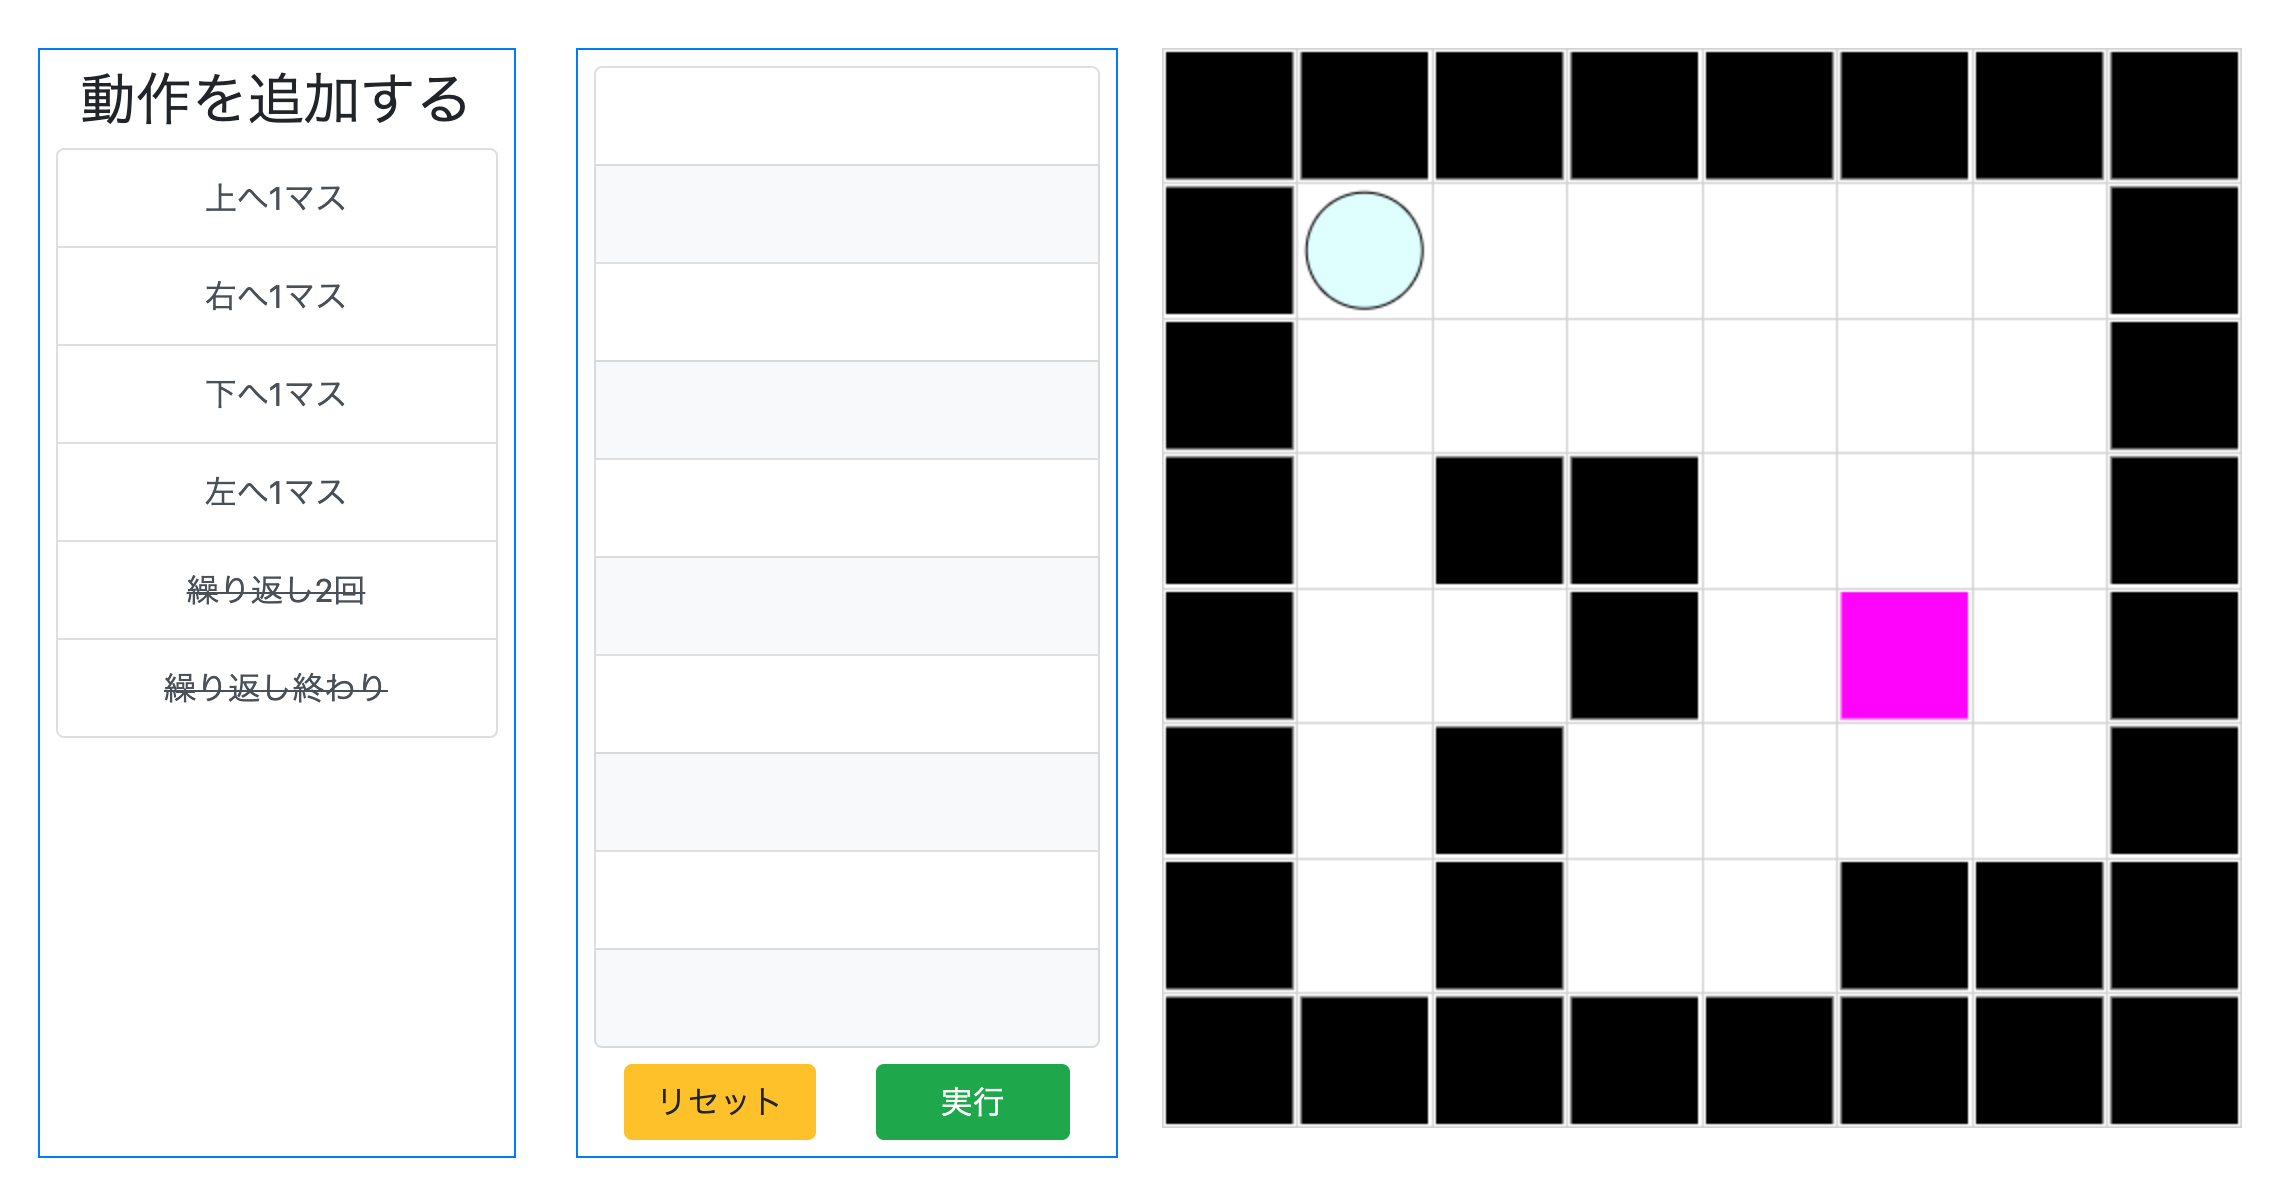
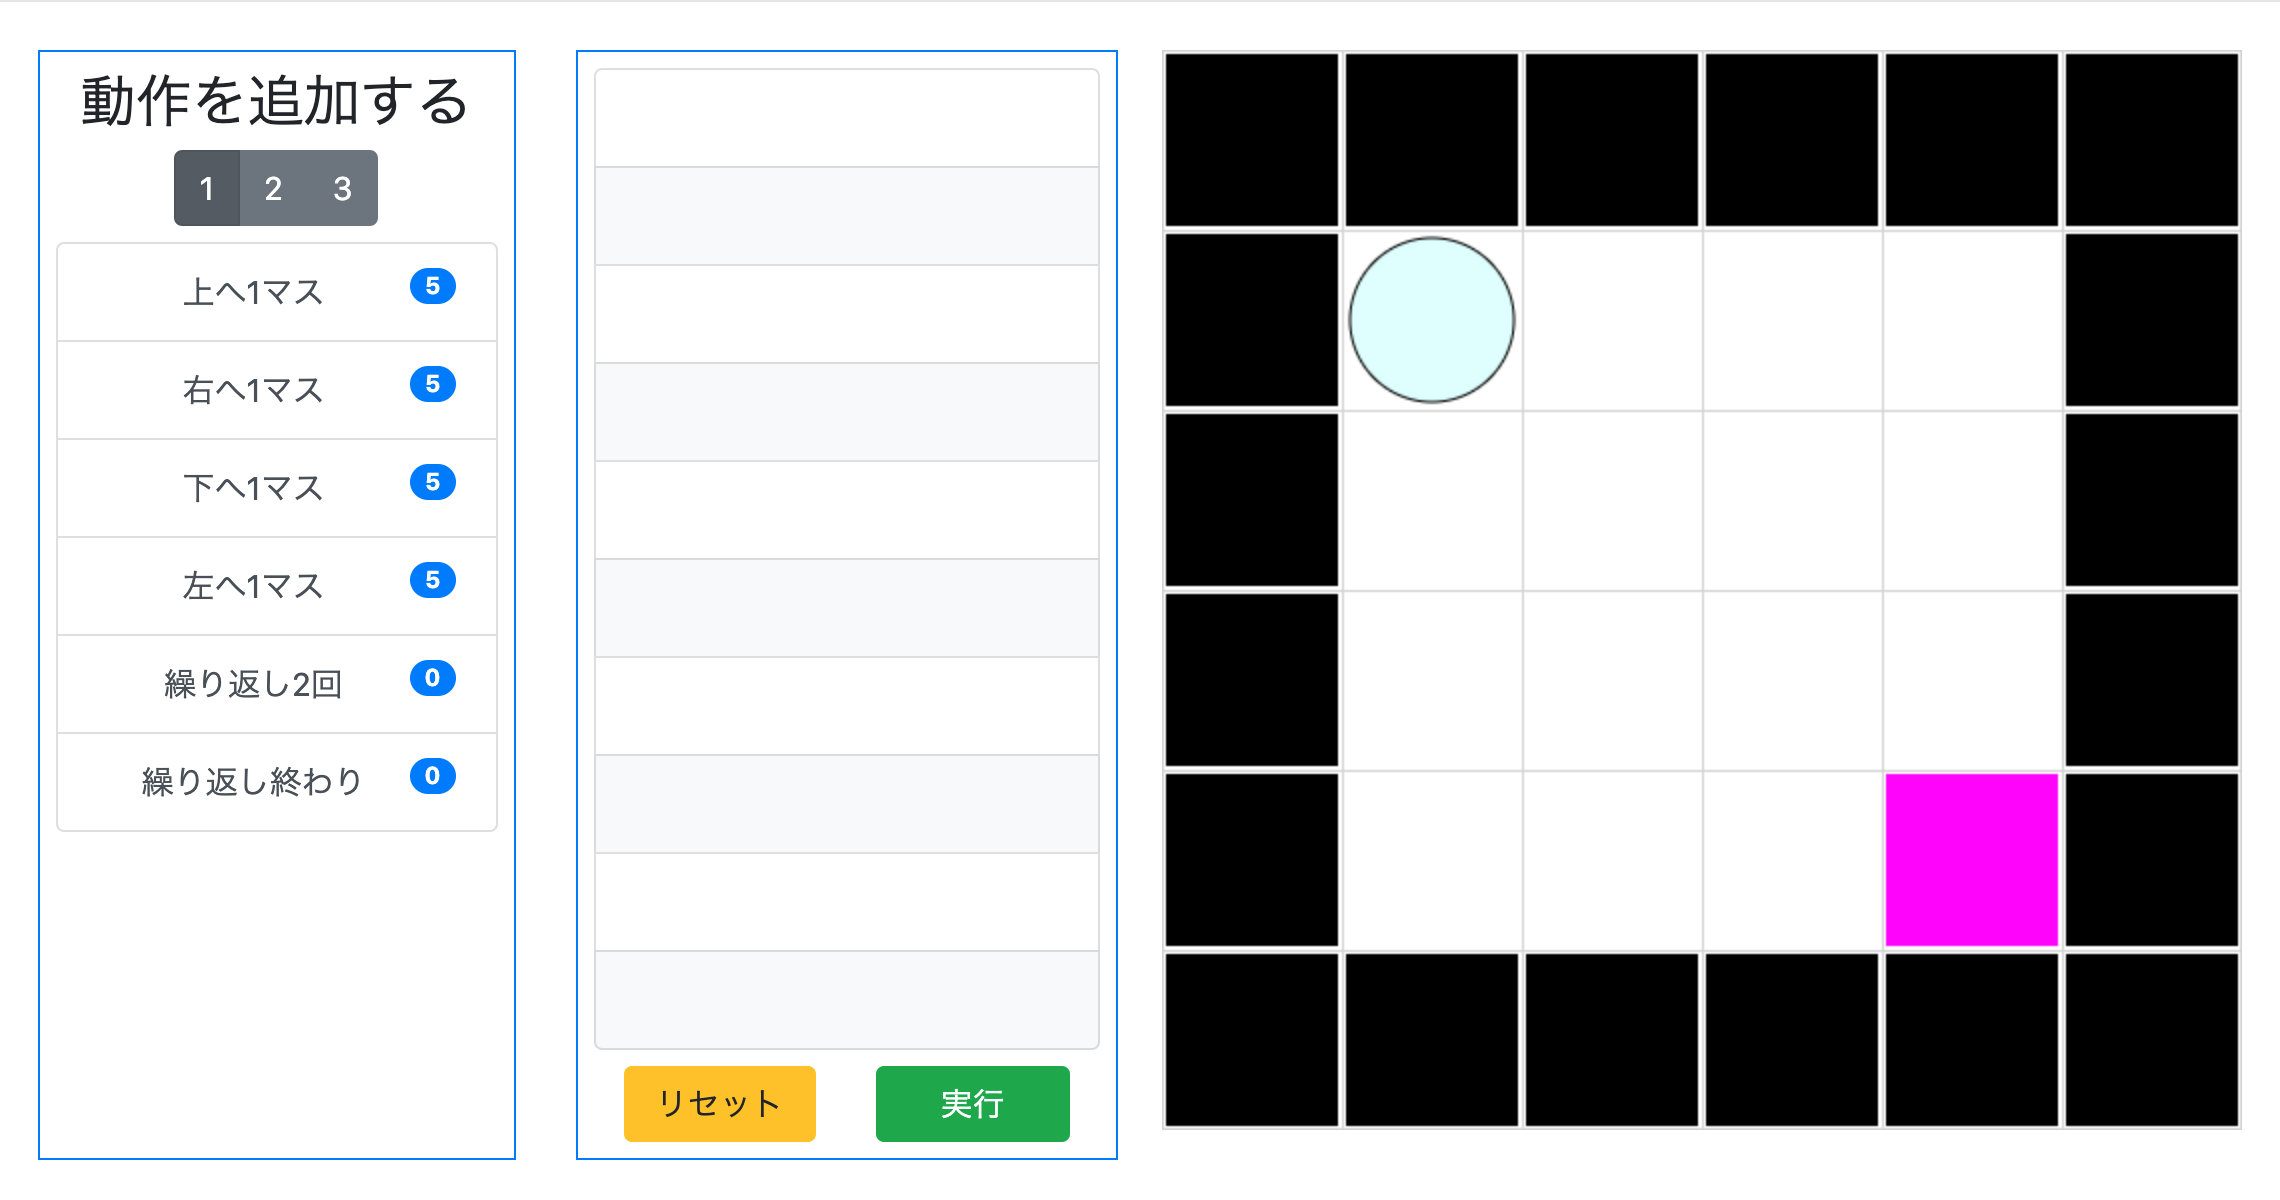
bug fixed (move acrros bug)

diff --git a/js/RunTodos.js b/js/RunTodos.js
@@ -1,15 +1,35 @@
 class RunTodos {
-  static getTodosArr(purpose) {
+  static getTodosArr() {
     const todos = Array.from(document.getElementById('todos').children)
       .filter(el => el.classList.contains('not-empty'))
       .map(el => el.innerText.slice(0, -2)); // remove x and break line
-    if (purpose === 'dir') {
-      return todos.filter(todo => todo.slice(3, 5) === 'マス');
-    } else if (purpose === 'for') {
-      return todos.filter(todo => todo.slice(0, 4) === '繰り返し');
-    } else {
-      throw new Error('purpose string should be \'dir\' or \'for\'');
-    }
+    let editedTodos = [];
+    todos.forEach(todo => {
+      for (const num of range(1, 3)) {
+        if (todo === `上へ${num}マス`) {
+          for (const _ of range(1, num)) {
+            editedTodos.push('上へ1マス');
+          }
+          continue;
+        } else if (todo === `右へ${num}マス`) {
+          for (const _ of range(1, num)) {
+            editedTodos.push('右へ1マス');
+          }
+          continue;
+        } else if (todo === `下へ${num}マス`) {
+          for (const _ of range(1, num)) {
+            editedTodos.push('下へ1マス');
+          }
+          continue;
+        } else if (todo === `左へ${num}マス`) {
+          for (const _ of range(1, num)) {
+            editedTodos.push('左へ1マス');
+          }
+          continue;
+        }
+      }
+    });
+    return editedTodos;
   }
 
   setRunTodosHandler(field, ball, canvasModal, actions) {
@@ -23,33 +43,21 @@ class RunTodos {
         // Clear event handler
         document.getElementById('actions').outerHTML = document.getElementById('actions').outerHTML;
         document.getElementById('resetTodos').outerHTML = document.getElementById('resetTodos').outerHTML;
-        // This can't be written by forEach in async => https://qiita.com/frameair/items/e7645066075666a13063
         (async () => {
-          const dirTodos = RunTodos.getTodosArr('dir');
-          const forTodos = RunTodos.getTodosArr('for');
-          for (const todo of dirTodos) {
+          const todos = RunTodos.getTodosArr();
+          // This can't be written by forEach in async => https://qiita.com/frameair/items/e7645066075666a13063
+          for (const todo of todos) {
             await RunTodos.moveBallSmooth(todo, this.ball);
-            let blockStatus;
-            if (this.ball.posX >= 0 && this.ball.posY >= 0 && this.ball.posX < this.field.column && this.ball.posY < this.field.row) {
-              blockStatus = this.field.blockStatus[this.ball.posX][this.ball.posY];
-            } else {
-              blockStatus = 'none';
-            }
+            const blockStatus = RunTodos.getBlockStatusOfBallPos(this.ball, this.field);
             if (blockStatus === 'black' || blockStatus === 'none') {
               canvasModal.show('error', this.ball, this, this.actions);
-              dirTodos.splice(0, dirTodos.length);
+              todos.splice(0, todos.length);
             } else if (blockStatus === 'gold') {
               this.ball.posX = this.field.specialBlock.olive.x;
               this.ball.posY = this.field.specialBlock.olive.y;
             }
           }
-
-          let blockStatus;
-          if (this.ball.posX >= 0 && this.ball.posY >= 0 && this.ball.posX < this.field.column && this.ball.posY < this.field.row) {
-            blockStatus = this.field.blockStatus[this.ball.posX][this.ball.posY];
-          } else {
-            blockStatus = 'none';
-          }
+          const blockStatus = RunTodos.getBlockStatusOfBallPos(this.ball, this.field);
           if (blockStatus === 'white' || blockStatus === 'olive') {
             canvasModal.show('failed', this.ball, this, this.actions);
           } else if (blockStatus === 'magenta') {
@@ -63,41 +71,25 @@ class RunTodos {
   static async moveBallSmooth(todo, ball) {
     switch (todo) {
       case '上へ1マス':
-        await ball.moveSmooth(0, -1, 70);
+        await ball.moveSmooth(0, -1, 60);
         break;
       case '右へ1マス':
-        await ball.moveSmooth(1, 0, 70);
+        await ball.moveSmooth(1, 0, 60);
         break;
       case '下へ1マス':
-        await ball.moveSmooth(0, 1, 70);
+        await ball.moveSmooth(0, 1, 60);
         break;
       case '左へ1マス':
-        await ball.moveSmooth(-1, 0, 70);
+        await ball.moveSmooth(-1, 0, 60);
         break;
-      case '上へ2マス':
-        await ball.moveSmooth(0, -2, 70);
-        break;
-      case '右へ2マス':
-        await ball.moveSmooth(2, 0, 70);
-        break;
-      case '下へ2マス':
-        await ball.moveSmooth(0, 2, 70);
-        break;
-      case '左へ2マス':
-        await ball.moveSmooth(-2, 0, 70);
-        break;
-      case '上へ3マス':
-        await ball.moveSmooth(0, -3, 70);
-        break;
-      case '右へ3マス':
-        await ball.moveSmooth(3, 0, 70);
-        break;
-      case '下へ3マス':
-        await ball.moveSmooth(0, 3, 70);
-        break;
-      case '左へ3マス':
-        await ball.moveSmooth(-3, 0, 70);
-        break;
+    }
+  }
+
+  static getBlockStatusOfBallPos(ball, field) {
+    if (ball.posX >= 0 && ball.posY >= 0 && ball.posX < field.column && ball.posY < field.row) {
+      return field.blockStatus[ball.posX][ball.posY];
+    } else {
+      return 'none';
     }
   }
 }

diff --git a/js/index.js b/js/index.js
@@ -1,5 +1,8 @@
 const canvas = document.getElementById('gameCanvasDisplay');
 const ctx = canvas.getContext('2d');
+const range = (start, stop, step = 1) => Array.from({
+  length: (stop - start) / step + 1
+}, (_, i) => start + i * step);
 
 const initCanvasSizeToWidthLengthSquare = (canvas) => {
   const width = canvas.parentElement.clientWidth - 15 * 2; // subtract padding size
@@ -50,6 +53,8 @@ initCanvasSizeToWidthLengthSquare(canvas);
       ball = new Ball(field, stage.ball);
       actions = new Actions(stage.actionsBadgeNum);
       canvas.style.background = stage.canvas.background || '#fff';
+      Array.from(document.getElementById('actionsSelector').children).forEach(actionsBtn => actionsBtn.classList.remove('active'));
+      document.getElementById('actionsSelector').children[0].classList.add('active');
       const todos = Array.from(document.getElementById('todos').children);
       todos.forEach(el => {
         el.classList.replace('not-empty', 'empty');

diff --git a/README.md b/README.md
@@ -3,7 +3,7 @@
 ## 概要
 ボールをゴールに辿り着けるように、決められた動作を正しく並べて実行するゲームです。
 
-[Webページ ![](img/gameDisplay.png)](https://yunemk.github.io/Ball-Controll-Game/)
+[Webページ ![](img/gameDisplay.png)](https://yunemk.github.io/Ball-Control-Game/)
 
 ## 遊び方
 * 左の動作一覧から動きを選択します。
@@ -40,6 +40,18 @@
   },
   "canvas": {
     "background": "画面の背景色: string"
+  },
+  "actionsBadgeNum": {
+    "dir": {
+      "up": ["上へ1マスの回数: number", "2マス", "3マス"],
+      "right": ["右へ1マスの回数: number", "2マス", "3マス"],
+      "down": ["下へ1マスの回数: number", "2マス", "3マス"],
+      "left": ["左へ1マスの回数: number", "2マス", "3マス"]
+    },
+    "loop": {
+      "start": ["繰り返し2回の回数: number", "3回", "4回"],
+      "end": "繰り返し終わりの回数: number"
+    }
   }
 }
 ```
